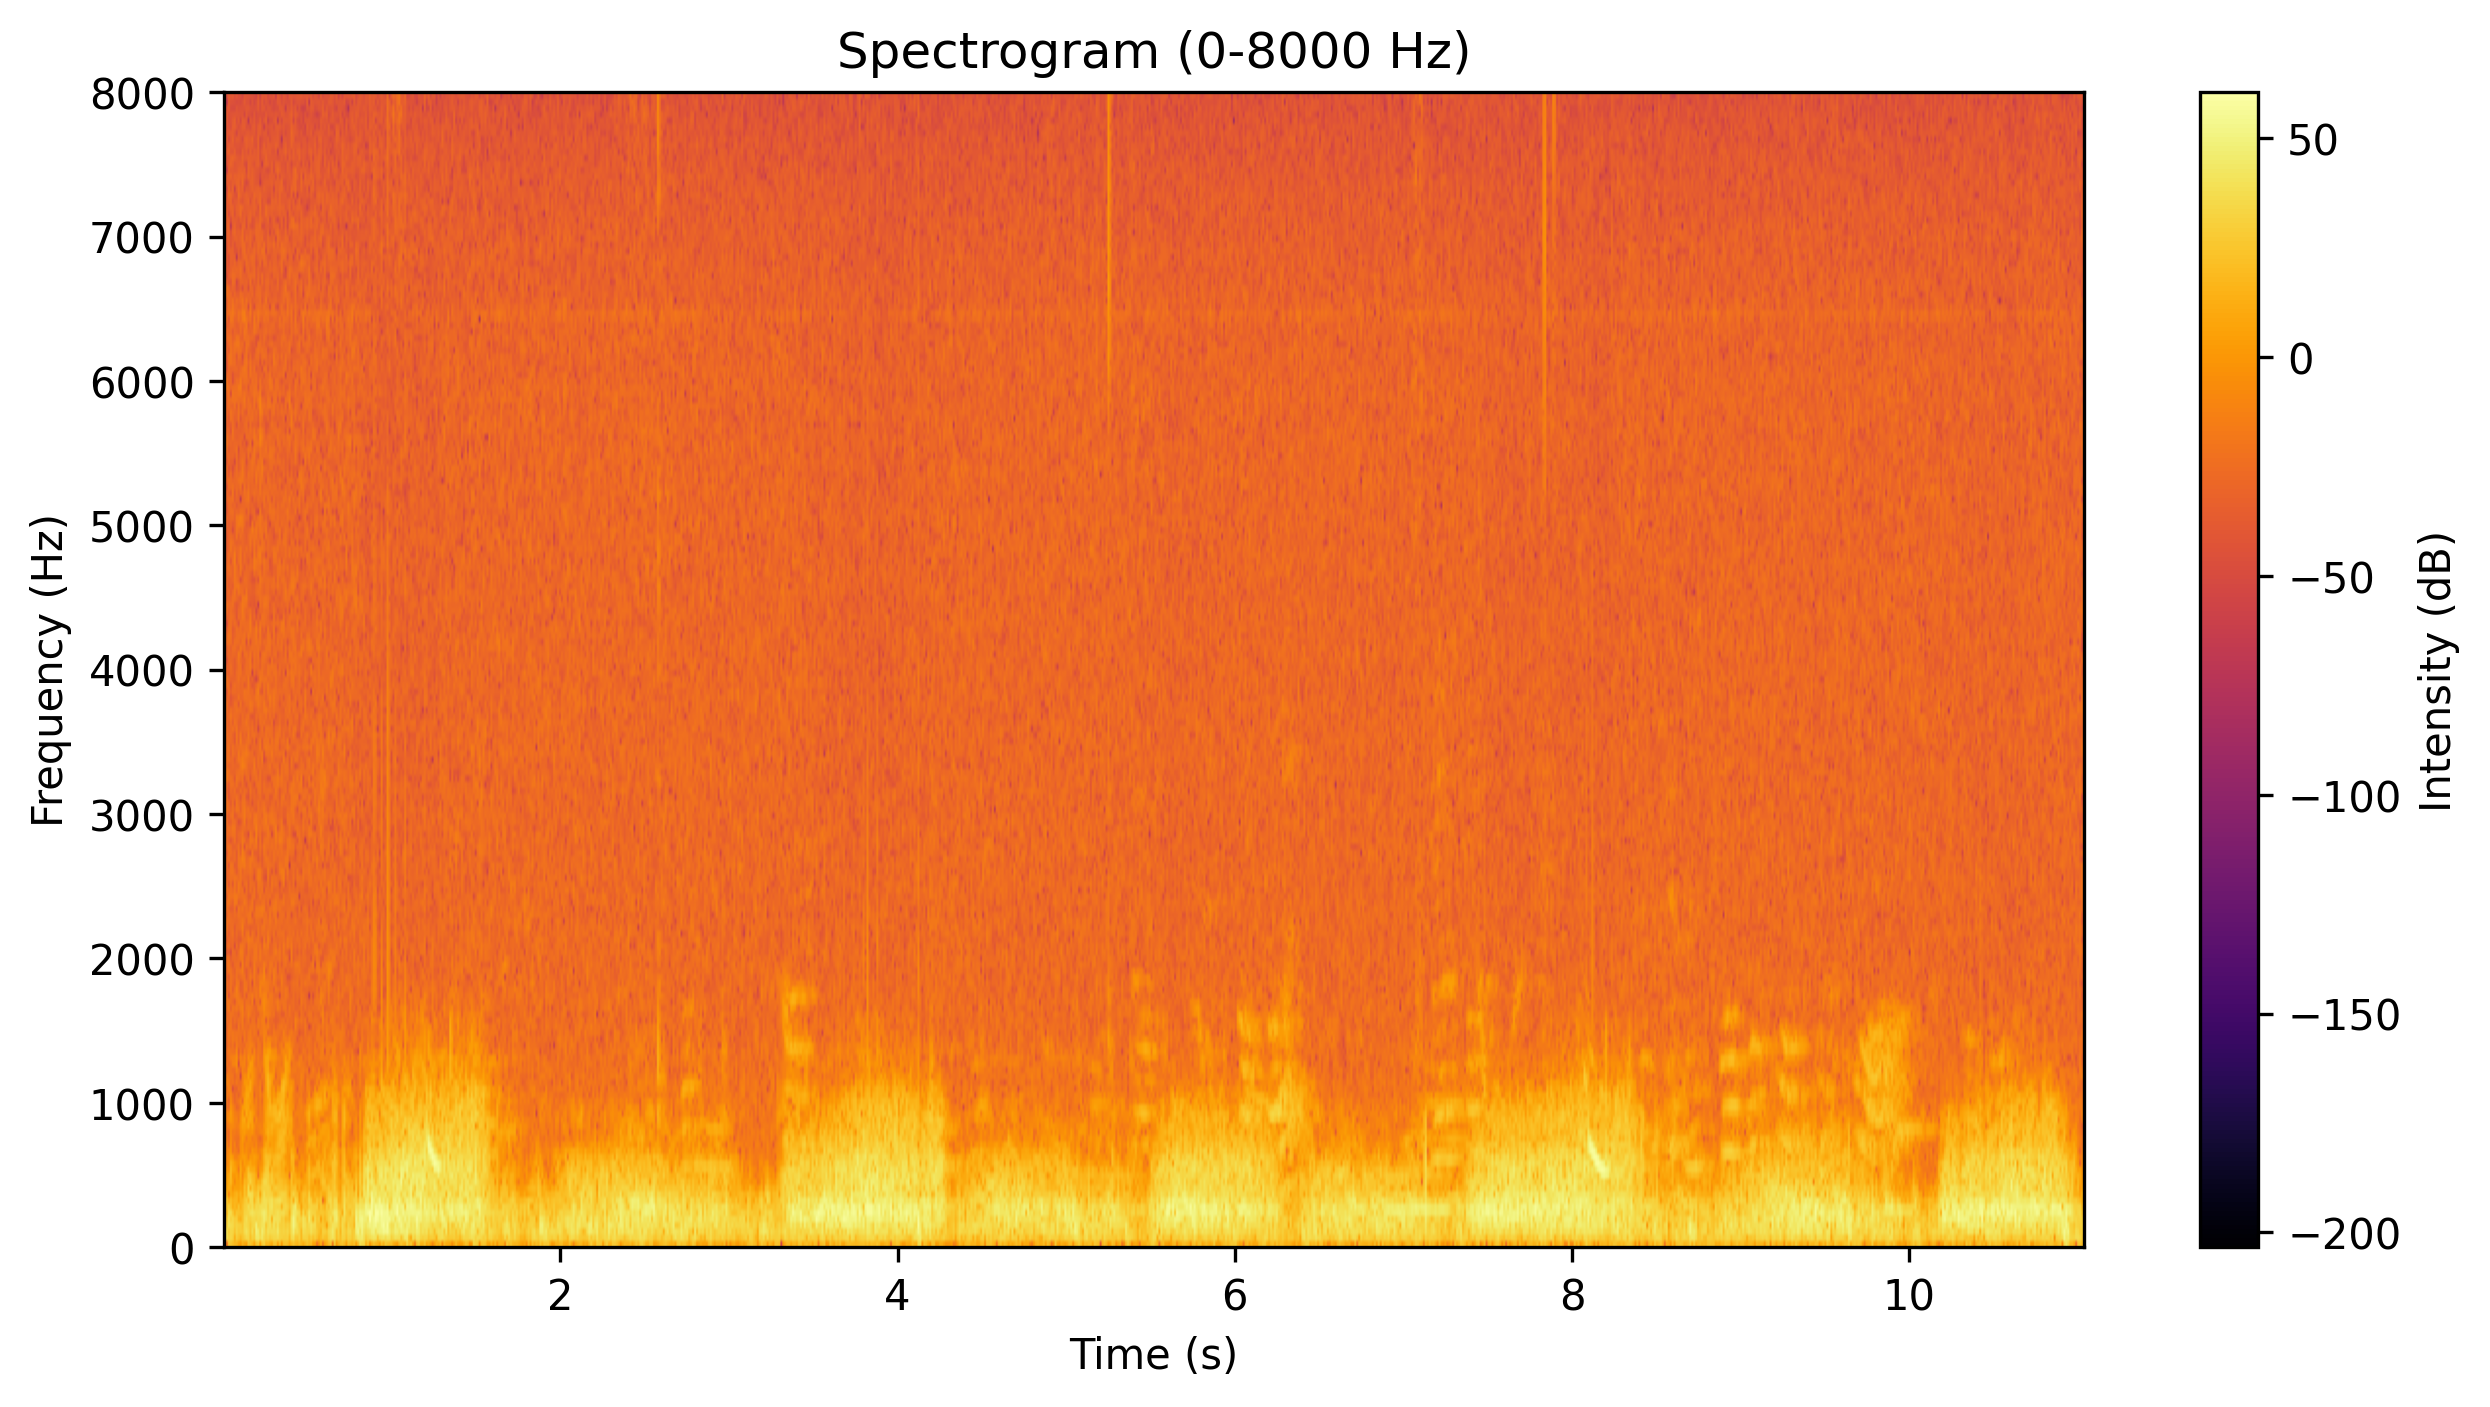
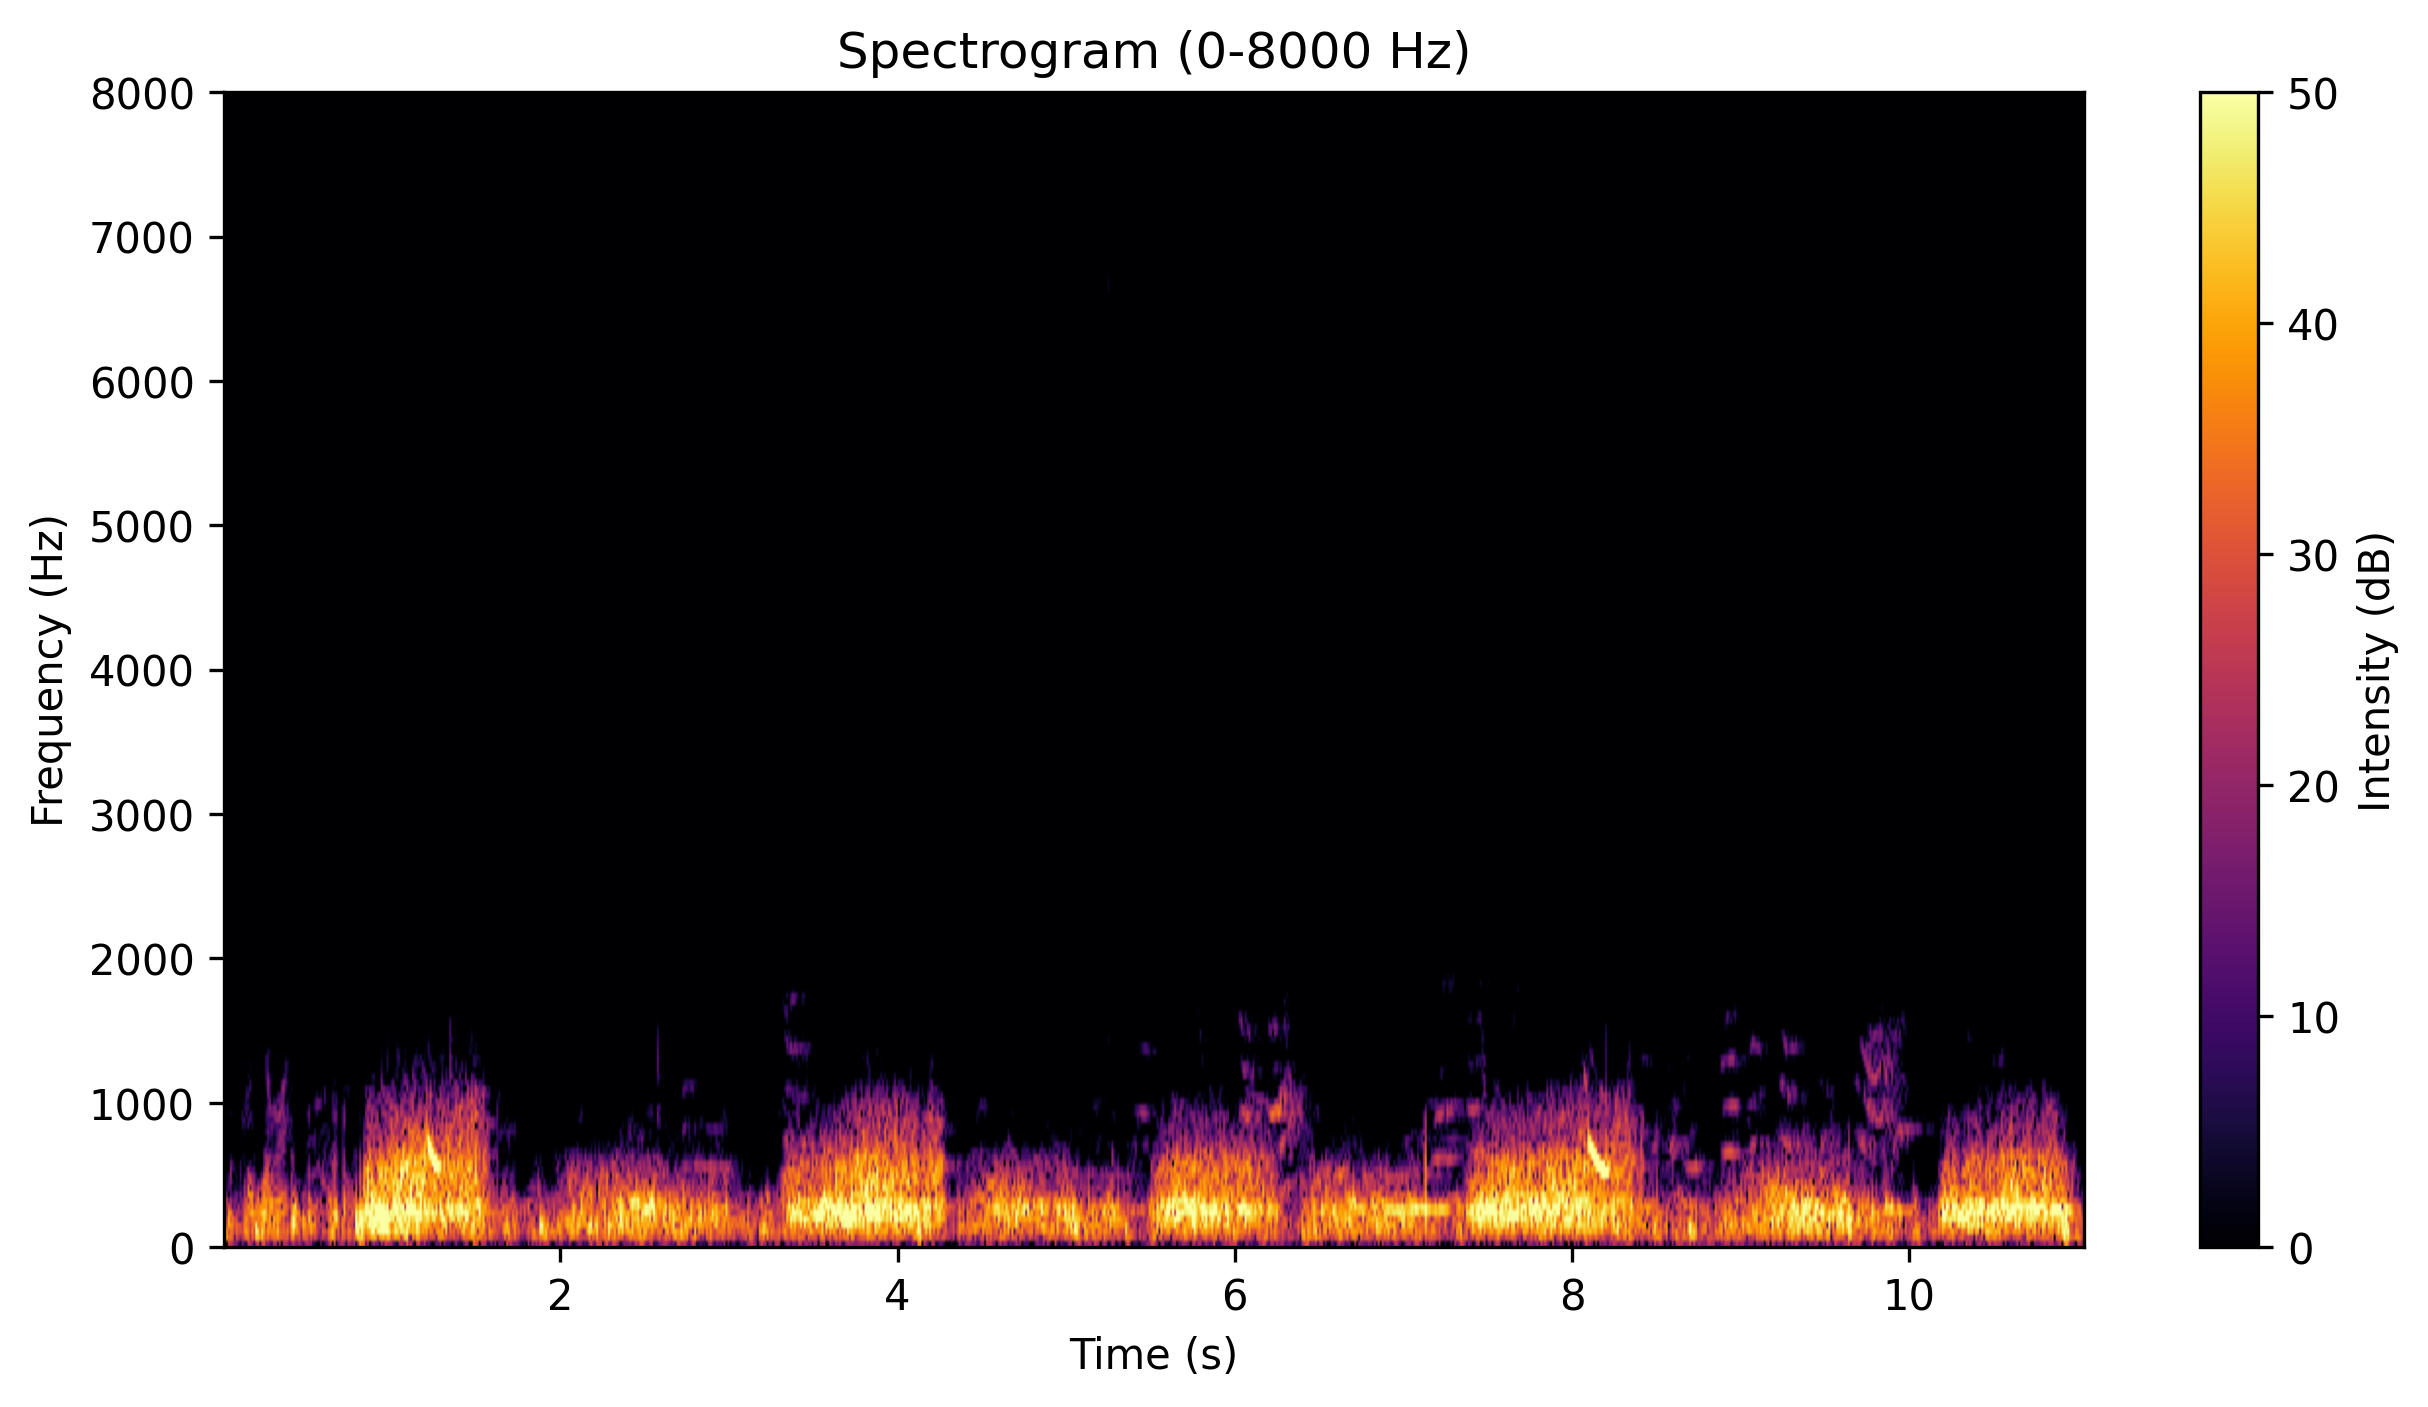
decibel range

diff --git a/main.py b/main.py
@@ -17,7 +17,7 @@ def bandpass_filter(data, sample_rate, lowcut=0, highcut=10000, order=5):
 
     return filtfilt(b, a, data)
 
-def save_spectrogram_image(wav_file, output_image, lowcut=0, highcut=10000):
+def save_spectrogram_image(wav_file, output_image, lowcut=0, highcut=10000, db_min=-80, db_max=0):
     sample_rate, data = wav.read(wav_file)
 
     if len(data.shape) > 1:
@@ -26,7 +26,15 @@ def save_spectrogram_image(wav_file, output_image, lowcut=0, highcut=10000):
     filtered_data = bandpass_filter(data, sample_rate, lowcut, highcut)
 
     plt.figure(figsize=(10, 5))
-    _, _, _, im = plt.specgram(filtered_data, NFFT=1024, Fs=sample_rate, cmap='inferno', noverlap=512)
+    _, _, _, im = plt.specgram(
+        filtered_data,
+        NFFT=1024,
+        Fs=sample_rate,
+        cmap='inferno',
+        noverlap=512,
+        vmin=db_min,
+        vmax=db_max
+    )
 
     plt.ylim(lowcut, highcut)
     plt.xlabel('Time (s)')
@@ -37,4 +45,4 @@ def save_spectrogram_image(wav_file, output_image, lowcut=0, highcut=10000):
     plt.savefig(output_image, dpi=300, bbox_inches='tight')
     plt.close()
 
-save_spectrogram_image('record.wav', 'spectrogram.png', lowcut=0, highcut=8000)
+save_spectrogram_image('record.wav', 'spectrogram.png', lowcut=0, highcut=8000, db_min=0, db_max=50)
